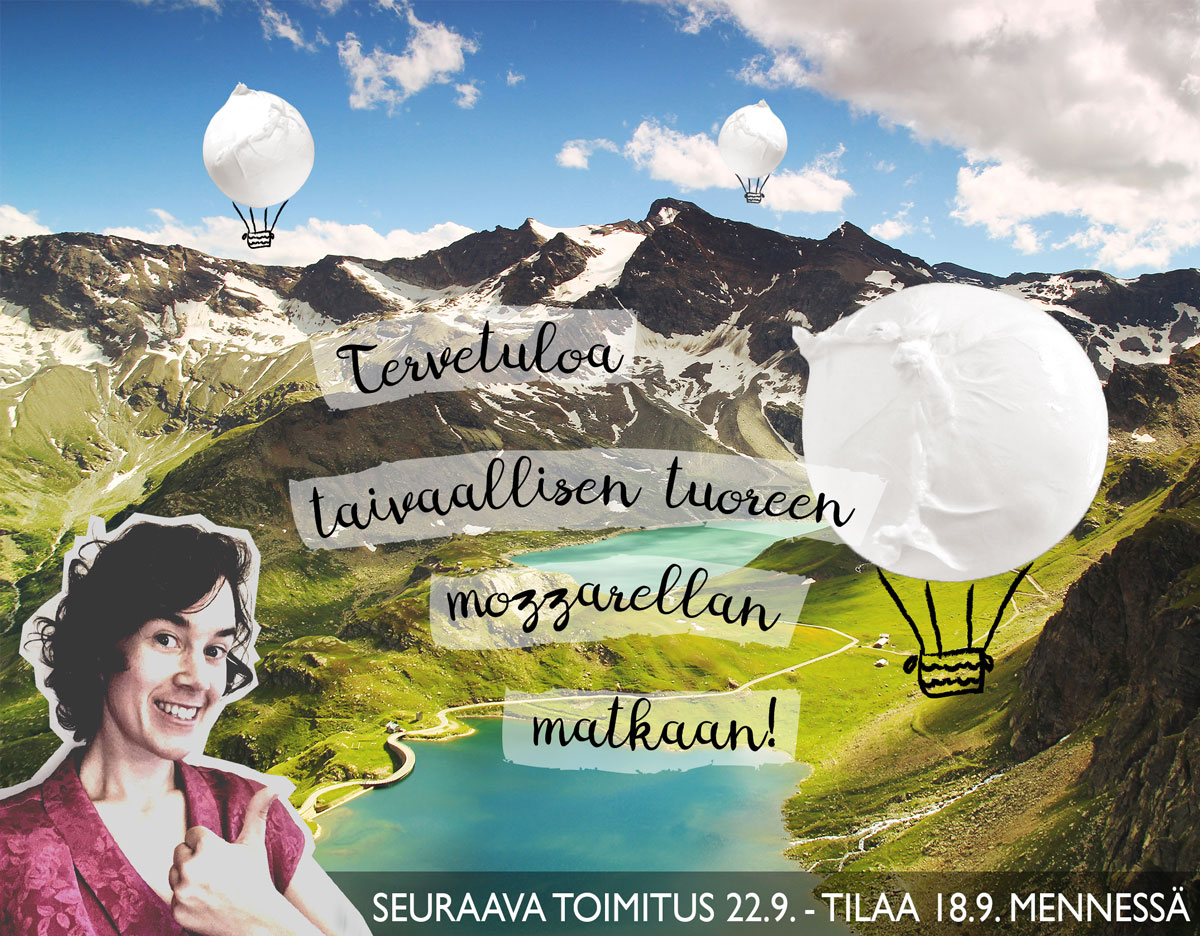
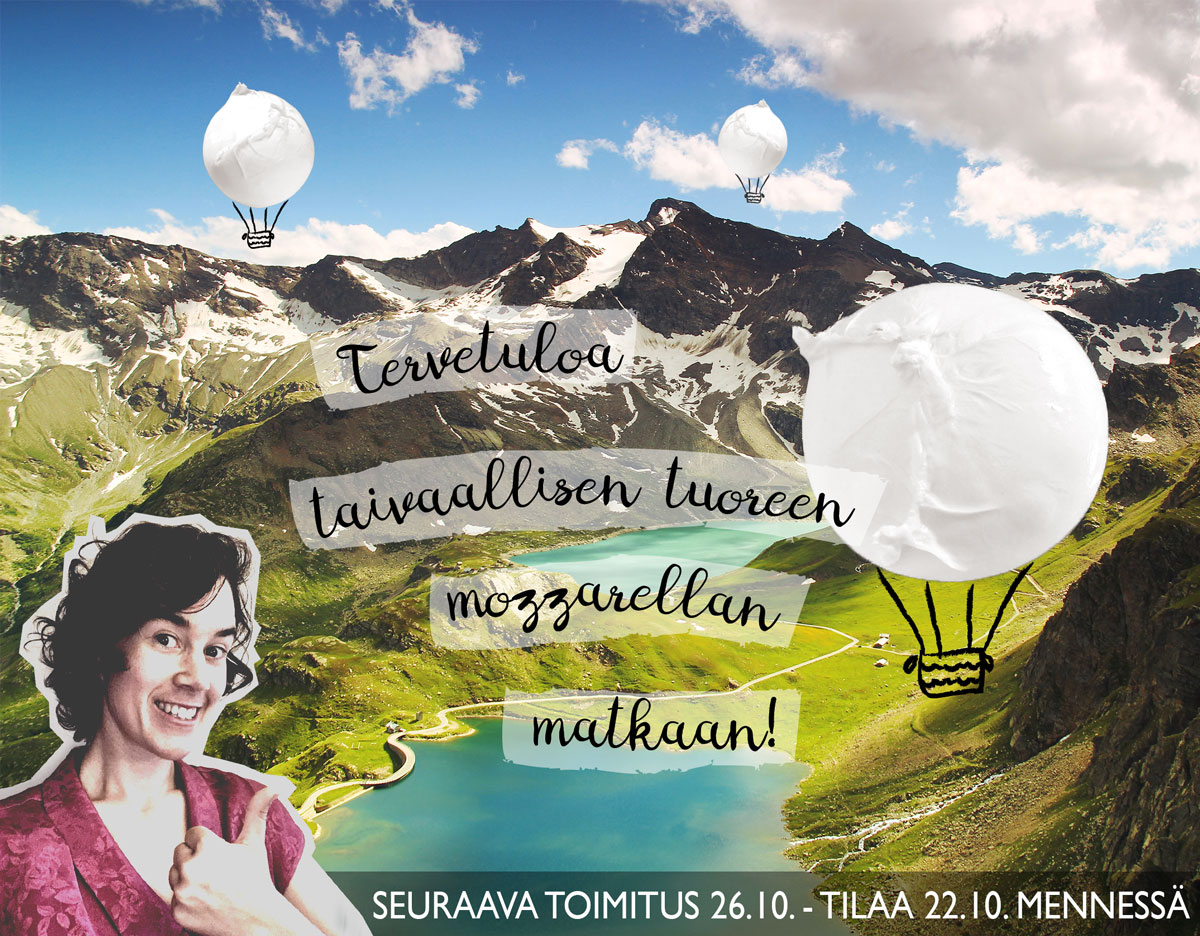
changed header delivery time

Changed region(s): [[0.3083, 0.9295, 1.0, 0.9915]]

diff --git a/index.html b/index.html
@@ -77,7 +77,8 @@
         <script src="https://oss.maxcdn.com/libs/html5shiv/3.7.0/html5shiv.js"></script>
         <script src="https://oss.maxcdn.com/libs/respond.js/1.4.2/respond.min.js"></script>
     <![endif]-->
-
+    
+    <!-- https://cookieconsent.insites.com/download/ -->
     <link rel="stylesheet" type="text/css" href="//cdnjs.cloudflare.com/ajax/libs/cookieconsent2/3.1.0/cookieconsent.min.css" />
     <script src="//cdnjs.cloudflare.com/ajax/libs/cookieconsent2/3.1.0/cookieconsent.min.js"></script>
     <script>
